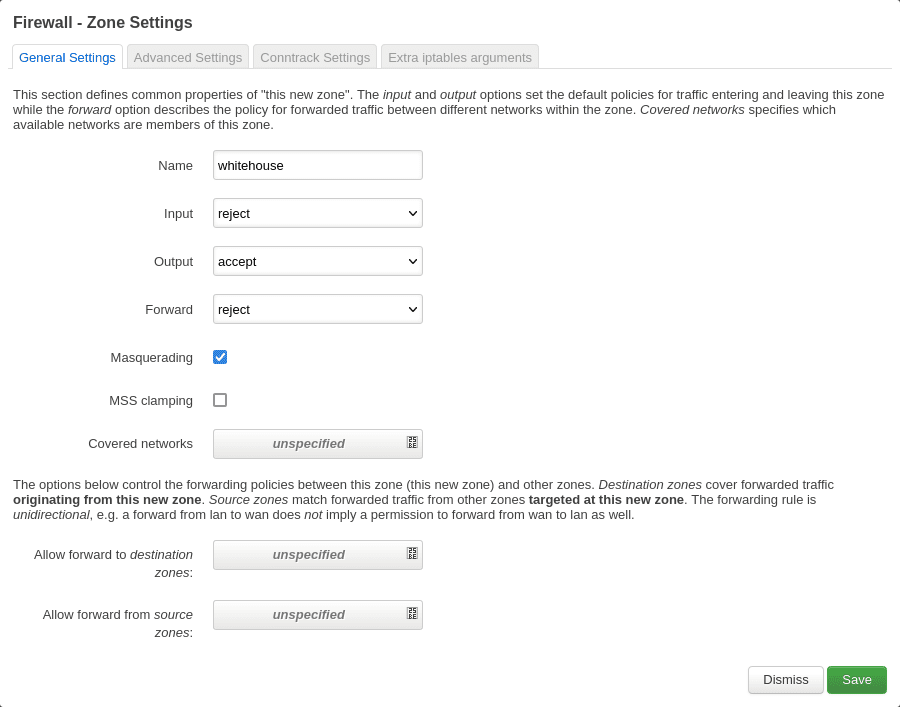
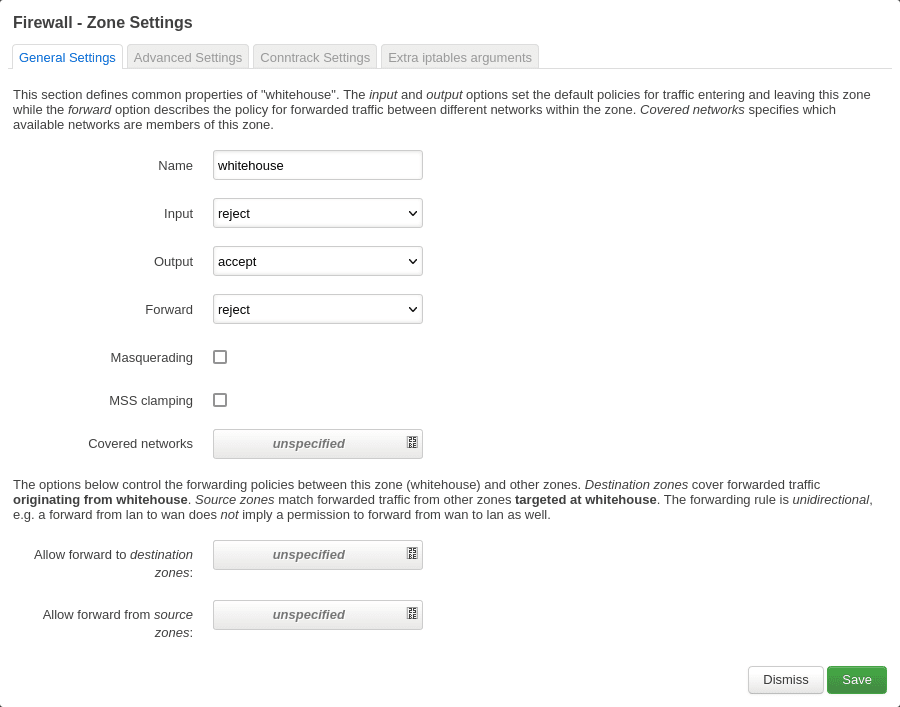
Disable masquerading

diff --git a/router/README.md b/router/README.md
@@ -537,7 +537,7 @@ wg genkey | tee /tmp/wg_vserver.key | wg pubkey > /tmp/wg_vserver.pub )
 
 #### Network ⇨ Firewall ⇨ "General Settings"
 
-A firewall zone needs to be created. I masquerade and **only** enable outgoing traffic.
+A firewall zone needs to be created. I **only** enable outgoing traffic.
 
 ![firwall zone configuration](assets/fw_zone_whitehouse_00.png)
 
@@ -553,7 +553,6 @@ uci set firewall.@zone[-1].name='whitehouse'
 uci set firewall.@zone[-1].family='ipv4'
 uci set firewall.@zone[-1].input='REJECT'
 uci set firewall.@zone[-1].forward='REJECT'
-uci set firewall.@zone[-1].masq='1'
 uci set firewall.@zone[-1].output='ACCEPT'
 ```
 
